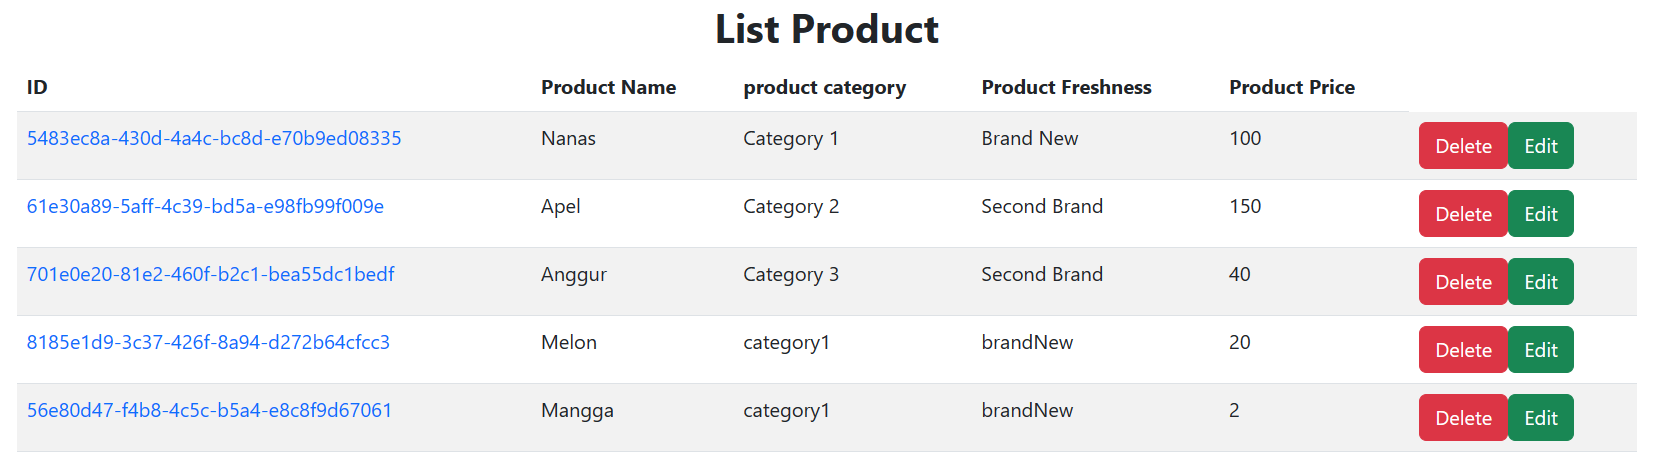
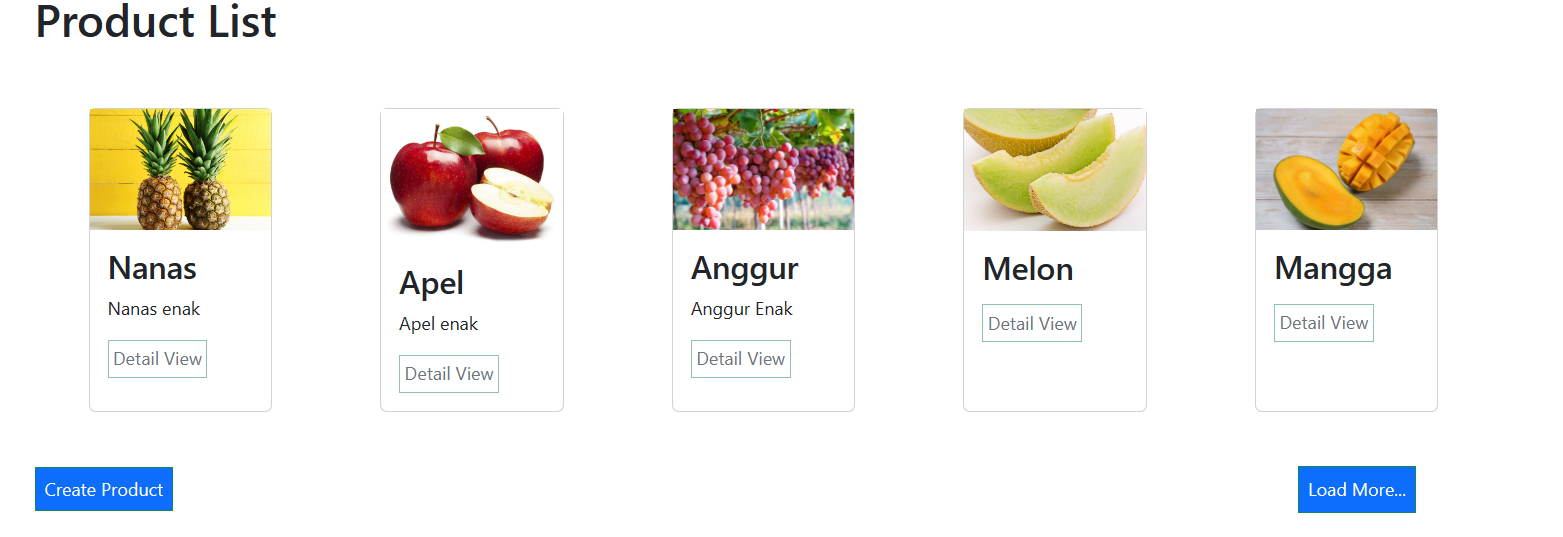
tugas loadmore

diff --git a/27_GraphQL Query and Mutation/Praktikum/vite-project/src/components/landingPage/ListProduct.jsx b/27_GraphQL Query and Mutation/Praktikum/vite-project/src/components/landingPage/ListProduct.jsx
@@ -1,4 +1,4 @@
-import React from 'react';
+import React, { useState } from 'react';
 import { gql, useQuery } from '@apollo/client';
 import { Link } from 'react-router-dom';
 
@@ -17,6 +17,11 @@ const GetProductList = gql`
 
 export default function ListProduct() {
   const { data, loading, error } = useQuery(GetProductList);
+  const [displayedProducts, setDisplayedProducts] = useState(3);
+
+  const loadMore = () => {
+    setDisplayedProducts(displayedProducts + data.products.length);
+  };
 
   if (loading) {
     console.log(loading);
@@ -27,11 +32,12 @@ export default function ListProduct() {
     console.log(error);
     return null;
   }
+
   return (
     <div className="container mb-4">
       <h1>Product List</h1>
       <div className="flex d-flex">
-        {data.products.slice(0, 3).map((datas) => (
+        {data.products.slice(0, displayedProducts).map((datas) => (
           <div className="card w-25 m-5" key={datas.id}>
             <img src={datas.image} />
             <div className="card-body">
@@ -41,18 +47,17 @@ export default function ListProduct() {
                 <Link to={`/${datas.id}`} className=" border-opacity-50  text-secondary-emphasis text-decoration-none card-link border border-success p-1">
                   Detail View
                 </Link>
-                <p style={{ marginLeft: 100 }}>9 Min</p>
               </div>
             </div>
           </div>
         ))}
       </div>
-      <Link to="/product" className="text-white p-2 bg-primary text-decoration-none card-link border border-success p-1">
+      <Link to="/list-product" className="text-white p-2 bg-primary text-decoration-none card-link border border-success p-1">
         Create Product
       </Link>
-      <Link to="/list-product/" className="text-white p-2 bg-primary text-decoration-none card-link border border-success p-1" style={{ marginLeft: 1000 }}>
+      <button className="text-white p-2 bg-primary text-decoration-none card-link border border-success p-1" style={{ marginLeft: 1000 }} onClick={loadMore}>
         Load More...
-      </Link>
+      </button>
     </div>
   );
 }
